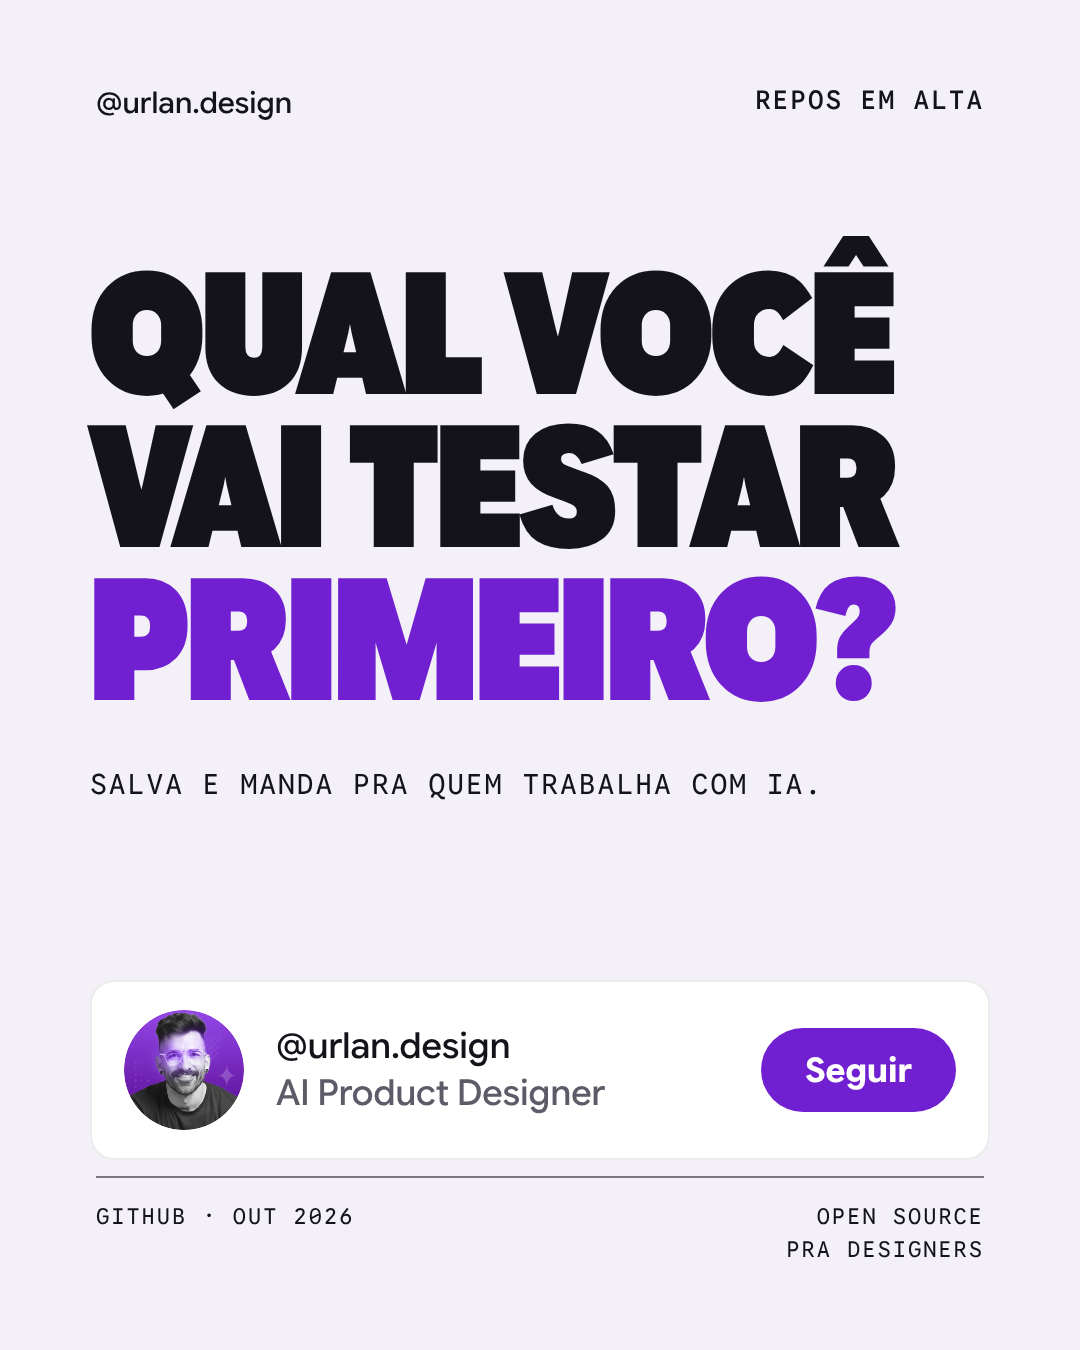
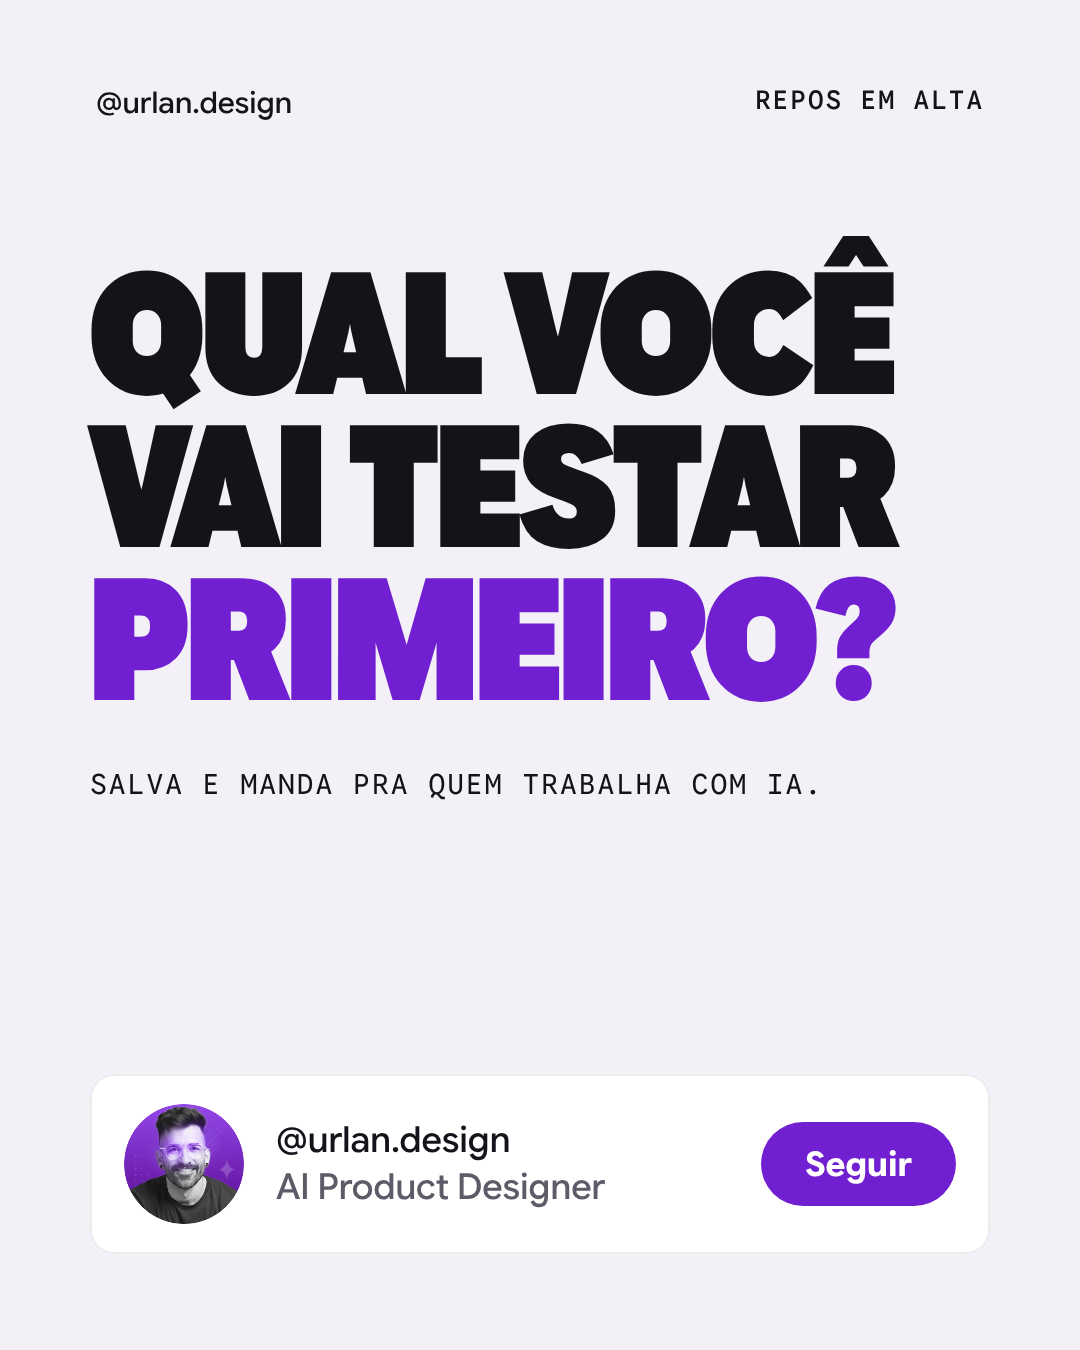
Editorial: fechamento sem rodapé, card no fim como nos outros estilos
Claude-Session: https://claude.ai/code/session_01DwYVZ4p9qWAPLeHrrQbmUv

Changed region(s): [[0.0917, 0.7467, 0.5806, 0.9333], [0.7028, 0.7467, 0.9167, 0.9333]]

diff --git a/template/render.py b/template/render.py
@@ -238,14 +238,15 @@ def ed_arrow(color=ED_INK):
             f'stroke="{color}" stroke-width="2.4" stroke-linecap="round" stroke-linejoin="round"/></svg>')
 
 
-def ed_frame(inner, foot_left="@URLAN.DESIGN", foot_right="", top_right="", bg=ED_BG, extra=""):
+def ed_frame(inner, foot_left="@URLAN.DESIGN", foot_right="", top_right="", bg=ED_BG, extra="", footer=True):
+    foot = (f'''<div style="position:absolute;left:96px;right:96px;bottom:84px;border-top:2px solid rgba(21,19,26,.55);padding-top:22px;display:flex;justify-content:space-between;align-items:flex-start;{MONO};font-size:22px;letter-spacing:2px;line-height:1.5">
+    <span>{e(foot_left)}</span><span style="text-align:right;white-space:pre-line">{e(foot_right)}</span></div>''') if footer else ""
     return f"""
 <div class="s" style="background:{bg};color:{ED_INK};overflow:hidden;padding:0">{extra}
   <div style="position:absolute;top:84px;left:96px;right:96px;display:flex;justify-content:space-between;{MONO};font-weight:500;font-size:26px;letter-spacing:2px">
     <span style="font-family:'Google Sans Flex',sans-serif;font-weight:500;font-size:30px;letter-spacing:0">@urlan.design</span><span>{e(top_right)}</span></div>
   {inner}
-  <div style="position:absolute;left:96px;right:96px;bottom:84px;border-top:2px solid rgba(21,19,26,.55);padding-top:22px;display:flex;justify-content:space-between;align-items:flex-start;{MONO};font-size:22px;letter-spacing:2px;line-height:1.5">
-    <span>{e(foot_left)}</span><span style="text-align:right;white-space:pre-line">{e(foot_right)}</span></div>
+  {foot}
 </div>"""
 
 
@@ -308,14 +309,14 @@ def ed_closing(p):
     <div class="fit-lines" style="{CONDENSED};font-size:170px;line-height:.9;letter-spacing:-2px;white-space:nowrap">{lines}</div>
     <p style="margin-top:44px;{MONO};font-size:28px;line-height:1.55;letter-spacing:2px;text-transform:uppercase;max-width:760px">{e(c.get('body'))}</p>
   </div>
-  <div style="position:absolute;left:90px;right:90px;bottom:190px;height:180px;border-radius:24px;background:#FFFFFF;
+  <div style="position:absolute;left:90px;right:90px;bottom:96px;height:180px;border-radius:24px;background:#FFFFFF;
        border:2px solid rgba(21,19,26,.08);display:flex;align-items:center;padding:0 32px;gap:32px">
     <img src="{avatar}" alt="" style="width:120px;height:120px;border-radius:50%;object-fit:cover;flex:none">
     <div style="flex:1;font-family:'Google Sans Flex',sans-serif;font-weight:500;font-size:36px;line-height:1.3">@urlan.design<br><span style="color:{ED_MONO_MUTED}">AI Product Designer</span></div>
     <span style="flex:none;background:{PURPLE};color:#fff;font-family:'Google Sans Flex',sans-serif;font-weight:700;font-size:34px;
        height:84px;padding:0 44px;border-radius:999px;display:flex;align-items:center">Seguir</span>
   </div>"""
-    return ed_frame(inner, foot_left=p_foot.get("left", ""), foot_right=p_foot.get("right", ""), top_right=p_foot.get("top_right", ""))
+    return ed_frame(inner, top_right=p_foot.get("top_right", ""), footer=False)
 
 
 p_foot = {}
